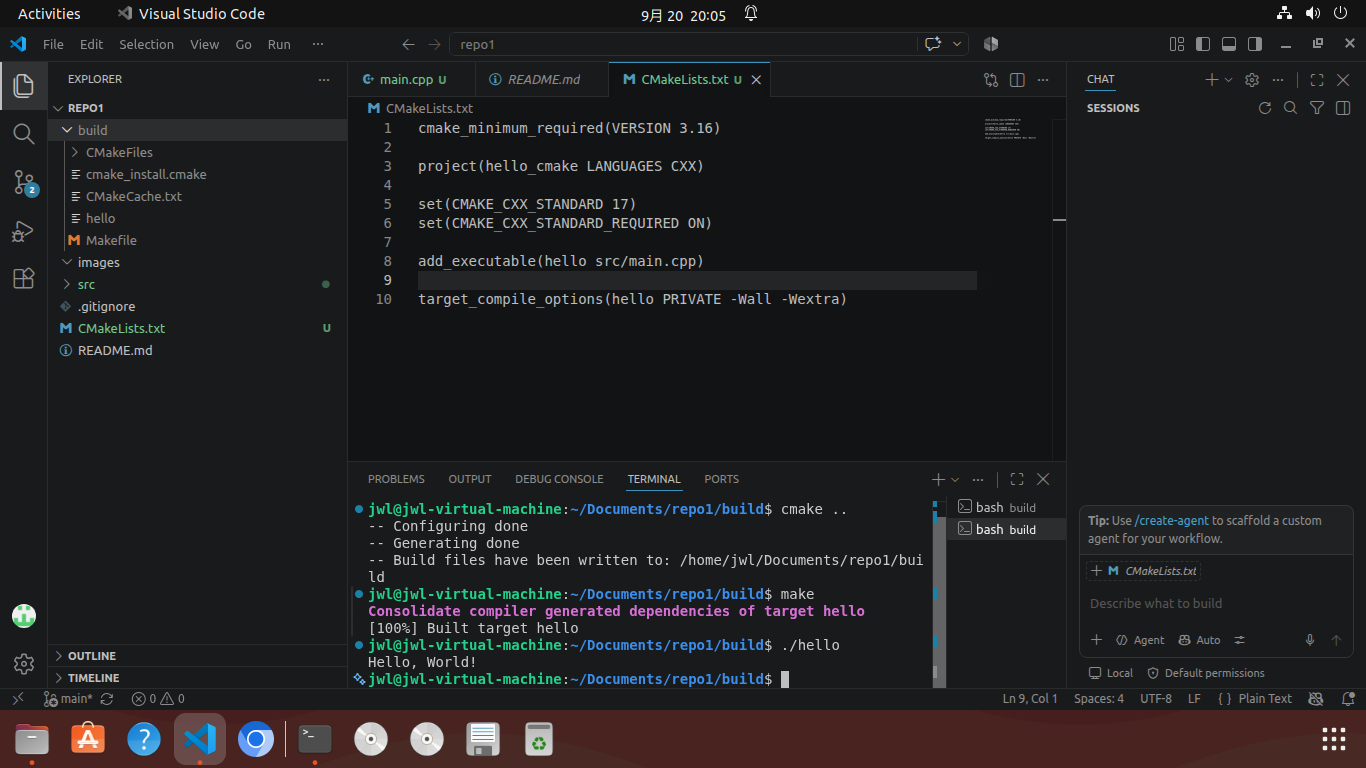
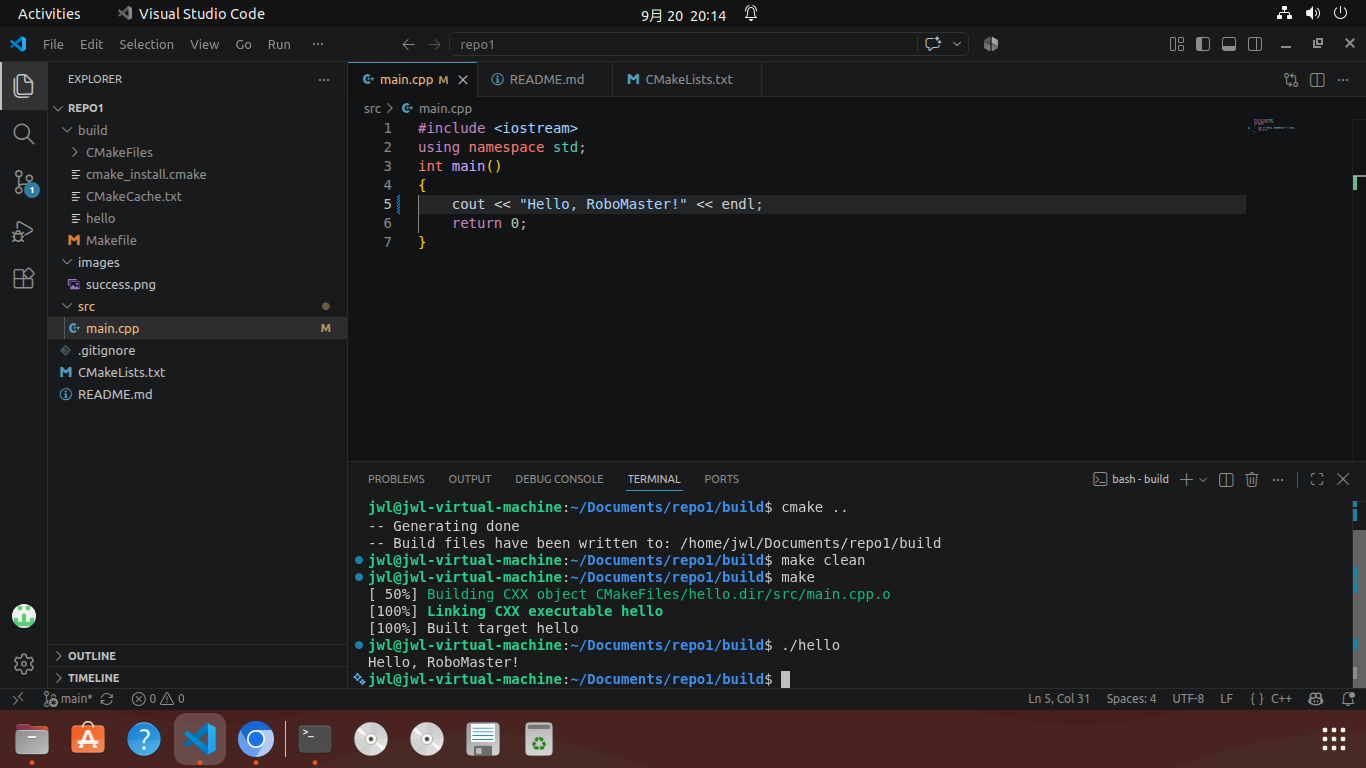
changed the image

diff --git a/src/main.cpp b/src/main.cpp
@@ -2,6 +2,6 @@
 using namespace std;
 int main()
 {
-    cout << "Hello, World!" << endl;
+    cout << "Hello, RoboMaster!" << endl;
     return 0;
 }
